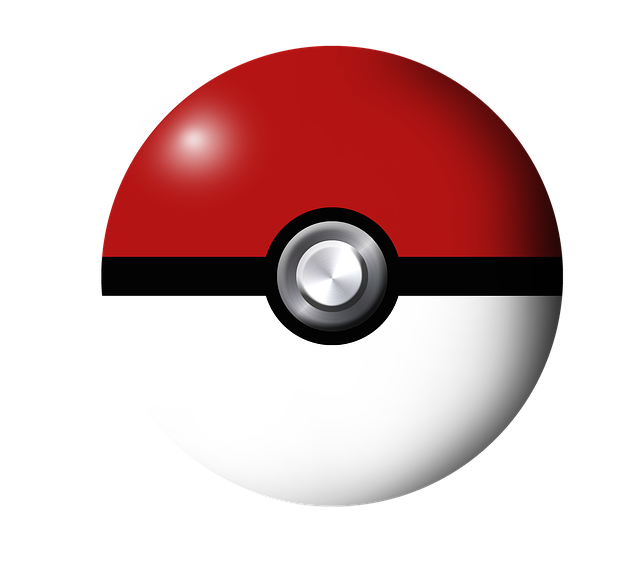
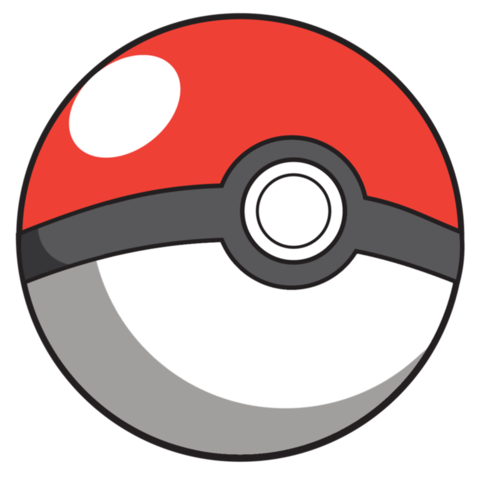
second pokemon can be added

diff --git a/src/App.js b/src/App.js
@@ -23,31 +23,86 @@ function App() {
 
   const [choice, setChoice] = useState({
     name: "Make a choice",
-    number: 666,
+    number: 0,
     image: pokeball,
     firsttype: "",
     secondtype: "",
+    selected: false,
   });
 
-  function SetChoice() {
-    setChoice((c) => ({
-      ...c,
-      name: name,
-      number: number,
-      image: image,
-      firsttype: firsttype,
-      secondtype: secondtype,
-    }));
+  const [secondchoice, setSecondchoice] = useState({
+    name: "Make a choice",
+    number: 0,
+    image: pokeball,
+    firsttype: "",
+    secondtype: "",
+    selected: false,
+  });
+
+  function SelectChoice() {
+    !choice.selected
+      ? setChoice((c) => ({
+          ...c,
+          name: name,
+          number: number,
+          image: image,
+          firsttype: firsttype,
+          secondtype: secondtype,
+          selected: true,
+        }))
+      : setSecondchoice((s) => ({
+          ...s,
+          name: name,
+          number: number,
+          image: image,
+          firsttype: firsttype,
+          secondtype: secondtype,
+          selected: true,
+        }));
   }
 
-  function RemoveChoice() {
-    setChoice((c) => ({
-      ...c,
+  function RemoveFirstchoice() {
+    if (secondchoice.selected) {
+      setChoice((c) => ({
+        ...c,
+        name: secondchoice.name,
+        number: secondchoice.number,
+        image: secondchoice.image,
+        firsttype: secondchoice.firsttype,
+        secondtype: secondchoice.secondtype,
+        selected: true,
+      }));
+      setSecondchoice((s) => ({
+        ...s,
+        name: "Make a choice",
+        number: 0,
+        image: pokeball,
+        firsttype: "",
+        secondtype: "",
+        selected: false,
+      }));
+    } else {
+      setChoice((c) => ({
+        ...c,
+        name: "Make a choice",
+        number: 0,
+        image: pokeball,
+        firsttype: "",
+        secondtype: "",
+        selected: false,
+      }));
+    }
+  }
+
+  function RemoveSecondchoice() {
+    setSecondchoice((s) => ({
+      ...s,
       name: "Make a choice",
-      number: 666,
+      number: 0,
       image: pokeball,
       firsttype: "",
       secondtype: "",
+      selected: false,
     }));
   }
 
@@ -72,7 +127,23 @@ function App() {
         </span> */}
         <br />
         <button>Evolve</button>
-        <button onClick={RemoveChoice}>Remove</button>
+        <button onClick={RemoveFirstchoice}>Remove</button>
+      </div>
+    );
+  }
+
+  function DisplaySecondchoice() {
+    return (
+      <div className="Teamcard">
+        <img src={secondchoice.image} alt={secondchoice.name} />
+        <br />
+        <span>
+          #{secondchoice.number} {Capitalize(secondchoice.name)}
+        </span>
+        <br />
+        <br />
+        <button>Evolve</button>
+        <button onClick={RemoveSecondchoice}>Remove</button>
       </div>
     );
   }
@@ -183,7 +254,7 @@ function App() {
 
         <DisplayPokemon />
         <br />
-        <input type="button" value="Add to team" onClick={SetChoice} />
+        <input type="button" value="Add to team" onClick={SelectChoice} />
         {/* <input type="button" value="Evolve choice" /> */}
         <br />
 
@@ -232,8 +303,8 @@ function App() {
           <br />
         </label> */}
 
-        <label htmlFor="">Types (tbd)</label>
-        <br />
+        {/* <label htmlFor="">Types (tbd)</label> */}
+
         {/* https://react.tips/checkboxes-in-react-16/ */}
 
         {/* <button className="GenerateButton">Generate team!</button> */}
@@ -243,16 +314,7 @@ function App() {
         <h2>Your team</h2>
         <div className="Teamcards">
           <DisplayChoice />
-          <div className="Teamcard">
-            <img src="tbd" alt="tbd" />
-            <br />
-            <span>Name & ID</span>
-            <br />
-            <span>Types(s)</span>
-            <br />
-            <button>Evolve</button>
-            <button>Remove</button>
-          </div>
+          <DisplaySecondchoice />
           <div className="Teamcard">
             <img src="tbd" alt="tbd" />
             <br />

diff --git a/src/components/Footer.js b/src/components/Footer.js
@@ -8,19 +8,11 @@ export default function Footer() {
         </a>
         . Pokéball image by{" "}
         <a
-          href="https://pixabay.com/users/seducer-3063630/?utm_source=link-attribution&utm_medium=referral&utm_campaign=image&utm_content=1635610"
+          href="https://www.freeiconspng.com/img/45332"
           target="_blank"
           rel="noreferrer"
         >
-          Darwin Bulos
-        </a>{" "}
-        from{" "}
-        <a
-          href="https://pixabay.com//?utm_source=link-attribution&utm_medium=referral&utm_campaign=image&utm_content=1635610"
-          target="_blank"
-          rel="noreferrer"
-        >
-          Pixabay
+          Ahkâm
         </a>
         . <br />
         It's a private project by{" "}
